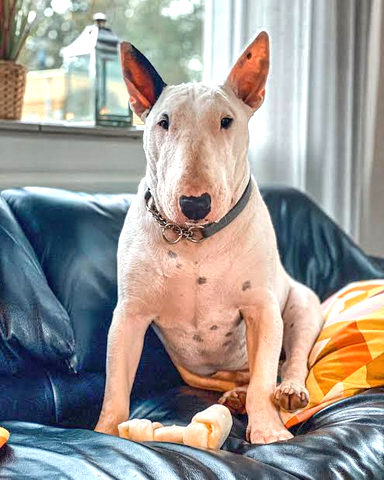
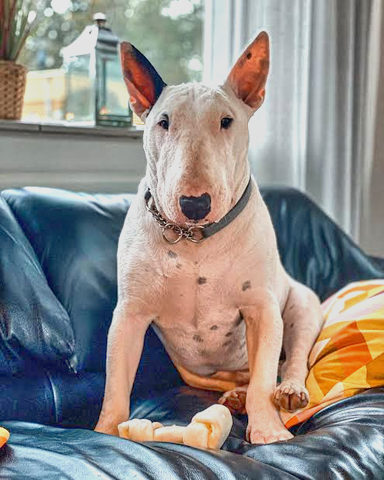
refactor(tone_map)!: fold shadows_highlights into tone_map
tone_map gains `pivot`, the brightness (stops below white) that
compression leaves in place, so areas brighter than it are darkened as
well as dark ones lifted. The old effect's look is the tone_map preset
`shadows_highlights`. Five parameters instead of eight together.

diff --git a/src/bullterrier_image/effects/tone_map/effect.py b/src/bullterrier_image/effects/tone_map/effect.py
@@ -1,4 +1,4 @@
-"""The `tone_map` effect: local tone mapping that compresses broad brightness differences and keeps fine detail."""
+"""The `tone_map` effect: HDR-style local tone mapping and shadows and highlights recovery."""
 
 import numpy as np
 
@@ -34,6 +34,16 @@ class ToneMapParams(EffectParams):
         "exaggerated: 0 = kept as it is, 1 = doubled in stops. Raising it brings out texture; it can clip "
         "highlights.",
     )
+    pivot: float = param(
+        0.0,
+        unit="stops",
+        min=0,
+        max=8,
+        doc="The brightness, in stops below white, that compression leaves where it is: 0 = white (everything is "
+        "lightened, nothing darkened); 2 = a quarter of white's brightness (about 0.25), where areas brighter than it "
+        "are darkened and darker ones lightened, recovering highlights as well as shadows. Raising it darkens "
+        "bright areas more and lightens dark ones less.",
+    )
     radius: float = param(
         30.0,
         unit="px",
@@ -58,17 +68,20 @@ class ToneMapParams(EffectParams):
 
 @effect(category="light", params=ToneMapParams)
 def tone_map(rgb: np.ndarray, params: ToneMapParams) -> np.ndarray:
-    """Compress the broad brightness differences of the picture and keep (or boost) its fine detail.
+    """HDR tone mapping, shadows and highlights recovery, lifted shadows.
+
+    Compresses the broad brightness differences of the picture and keeps (or boosts) its fine detail.
 
     Brightness is the base 2 logarithm L of the Rec. 709 luma Y of the sRGB-encoded picture (Y floored at 1e-4), in
     stops below white. A guided filter (He, Sun and Tang 2010, guided by L itself) over a window of 2 x `radius` + 1 px,
     edge-preserving by `edge_threshold` stops, splits it into a base B and detail D = L - B (Durand and Dorsey 2002).
-    The new log brightness is `contrast` x B + (1 + `amount`) x D, and every pixel's red, green and blue are
-    multiplied by 2^(new - L) = 2^((`contrast` - 1) B + `amount` D), so hue and saturation stay and the
-    result is held to 0..1. An even area of luma Y comes out as Y^`contrast`. B is an average of values of L, so it
-    never leaves their range: with `amount` 0 lowering `contrast` only ever brightens.
+    The new log brightness is `contrast` x (B + `pivot`) - `pivot` + (1 + `amount`) x D, and every pixel's red, green
+    and blue are multiplied by 2^(new - L) = 2^((`contrast` - 1) (B + `pivot`) + `amount` D), so hue and saturation
+    stay and the result is held to 0..1. An even area of luma Y comes out as Y (Y 2^`pivot`)^(`contrast` - 1), which
+    is Y^`contrast` for `pivot` 0. B is an average of values of L, so it never leaves their range: with `amount` 0
+    and `pivot` 0 lowering `contrast` only ever brightens; areas brighter than 2^-`pivot` are darkened.
     """
     log_luma = np.log2(np.maximum(luminance(rgb), _LUMINANCE_FLOOR))
     base = guided_filter(log_luma, log_luma, radius=round(params.radius), epsilon=params.edge_threshold**2)
-    gain = np.exp2((params.contrast - 1.0) * base + params.amount * (log_luma - base))
+    gain = np.exp2((params.contrast - 1.0) * (base + params.pivot) + params.amount * (log_luma - base))
     return np.clip(rgb * gain[..., None], 0.0, 1.0).astype(np.float32)

diff --git a/tests/effects/tone_map/test_tone_map.py b/tests/effects/tone_map/test_tone_map.py
@@ -5,6 +5,7 @@ from itertools import pairwise
 import numpy as np
 import pytest
 
+from bullterrier_image import Recipe, fx, render
 from bullterrier_image.core import registry
 
 NAME = "tone_map"
@@ -124,3 +125,30 @@ def test_the_base_stays_within_the_brightness_the_picture_has() -> None:
     gain = out[..., 0] / picture[..., 0]
     assert (gain >= luma.max() ** -0.5 - 1e-4).all()
     assert (gain <= luma.min() ** -0.5 + 1e-4).all()
+
+
+# Pivot p (stops below white): an even grey v is multiplied by (v x 2^p)^(contrast - 1), so a grey at 2^-p stays put,
+# darker ones are lifted and brighter ones lowered. Worked out by hand (calculator) per row.
+PIVOT_ROWS = {
+    "at the pivot (0.5, one stop) nothing changes": (0.5, 0.5, 1.0, 0.5),
+    "a stop under the pivot: 0.25 x 0.5^-0.5": (0.25, 0.5, 1.0, 0.3535534),
+    "white above the pivot is lowered: 1 x 2^-0.5": (1.0, 0.5, 1.0, 0.7071068),
+    "pivot 2 (0.25) and white: 1 x 4^-0.5": (1.0, 0.5, 2.0, 0.5),
+    "pivot 0 is the old behaviour: white stays white": (1.0, 0.5, 0.0, 1.0),
+    "contrast 1 leaves any pivot alone": (0.8, 1.0, 3.0, 0.8),
+}
+
+
+@pytest.mark.parametrize(("grey", "contrast", "pivot", "expected"), PIVOT_ROWS.values(), ids=list(PIVOT_ROWS))
+def test_the_pivot_is_the_brightness_the_compression_leaves_where_it_is(grey, contrast, pivot, expected) -> None:
+    out = registry.apply(NAME, flat(grey), contrast=contrast, amount=0.0, pivot=pivot)
+    np.testing.assert_allclose(out, expected, atol=1e-5)
+
+
+def test_the_shadows_highlights_preset_lifts_dark_areas_and_lowers_bright_ones() -> None:
+    """Far from their edge, a dark half (0.05) comes out brighter and a bright half (0.9) darker."""
+    out = render(
+        two_blocks(0.05, 0.9, (16, 128)), Recipe("look", size=128, steps=[fx.tone_map(preset="shadows_highlights")])
+    )
+    assert out[8, 5, 0] > 0.05 * 1.3
+    assert out[8, 122, 0] < 0.9 * 0.95

diff --git a/docs/effects-roadmap.md b/docs/effects-roadmap.md
@@ -48,9 +48,8 @@ it becomes a new effect only when it is a new idea. Planned merges of today's ef
 | `highpass` ✓ | Keep only fine detail (for blending). | `fx.highpass(radius=8)` |
 | `denoise` (deferred) | Median, bilateral or non-local-means (the default method fits the render budget; a slower one may be chosen). | `fx.denoise(method="bilateral", amount=0.4)` |
 | `lens_blur` aperture (planned) | `blades` on `lens_blur`: hexagonal or cat's-eye bokeh; 0 = a disc. | `fx.lens_blur(radius=12, highlights=4, blades=6)` |
-| `shadows_highlights` ✓ | Recover dark and bright areas. | `fx.shadows_highlights(shadows=0.4)` |
 | `dehaze` ✓ | Remove atmospheric haze. | `fx.dehaze(amount=0.5)` |
-| `tone_map` ✓ | Local tone mapping, the "HDR look". | `fx.tone_map(amount=0.7)` |
+| `tone_map` ✓ | Local tone mapping: the "HDR look", shadows and highlights recovery (preset `shadows_highlights`). | `fx.tone_map(amount=0.7)` |
 | `vignette` ✓ | Darken (or colour) the corners. | `fx.vignette(amount=0.5, roundness=0.8)` |
 | `gaussian_blur` ✓ | Blur. | `fx.gaussian_blur(radius=6)` |
 | `motion_blur` ✓ | Directional blur. | `fx.motion_blur(angle=30, length=40)` |
@@ -349,7 +348,6 @@ look = a linear-gradient field), and gives `topographic` depth contours.
 | `split_tone`, `color_balance` | `color_balance`: shadows, midtones, highlights colours, `amount`, `balance`, `softness`; presets `teal_orange`, `split_tone`, `color_balance` (done) |
 | `overlay` | `blend` + `fit="width"` |
 | `evaporate` | `disperse`, if its looks are reachable at a fixed `progress` |
-| `shadows_highlights` + `tone_map` | one, if one set of curves covers both looks |
 
 **Conventions, applied with the merges:**
 - Angles of a direction are measured clockwise from pointing right.
